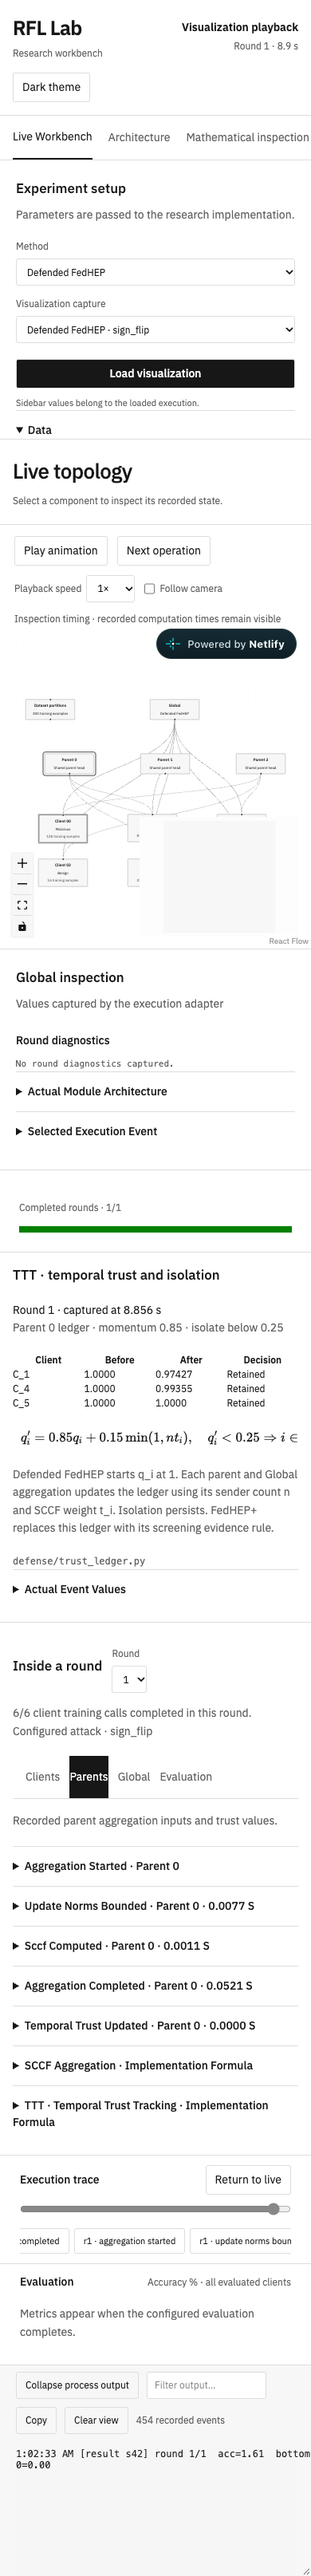
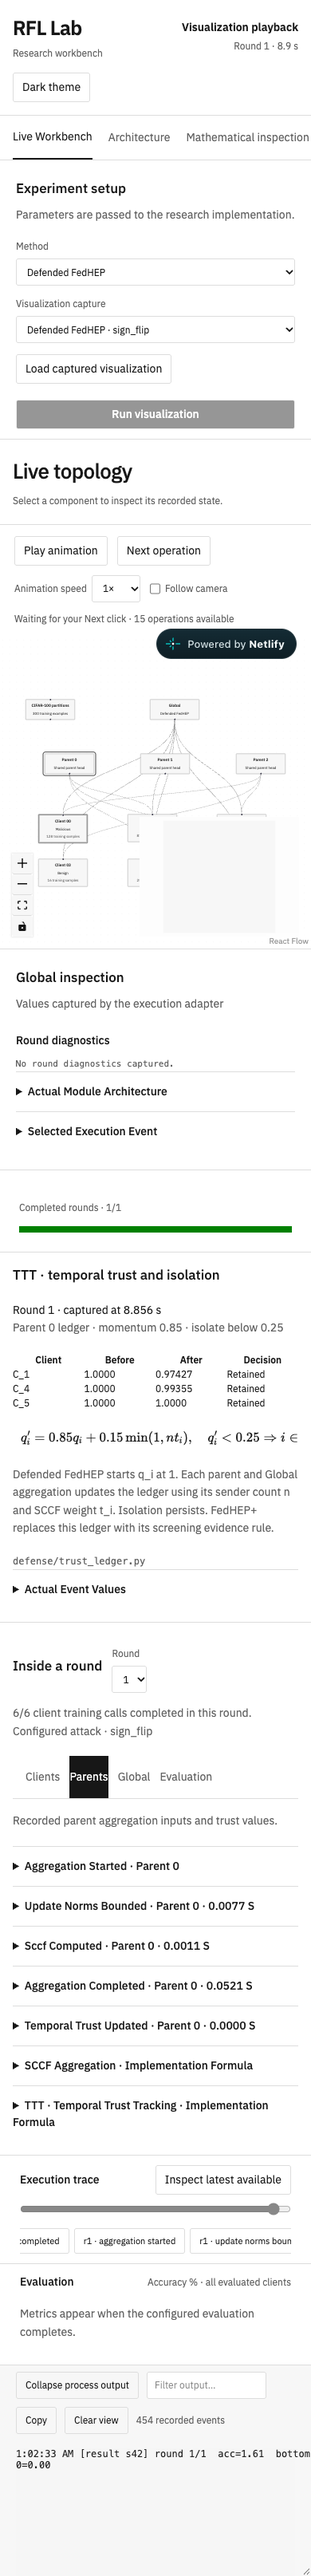
Connect private browser sessions to the online CPU bridge

diff --git a/visualizer/frontend/app/page.tsx b/visualizer/frontend/app/page.tsx
@@ -50,11 +50,13 @@ type Event = {
 type Field = { key: string; default: any; options: any[] | null; type: string };
 async function api(path: string, body?: unknown) {
   const key = sessionStorage.getItem("rfl-cpu-key");
+  const endpoint = sessionStorage.getItem("rfl-cpu-url");
   const response = await fetch("/api" + path, {
     method: body === undefined ? "GET" : "POST",
     headers: {
       "Content-Type": "application/json",
       ...(key ? { "X-RFL-Key": key } : {}),
+      ...(endpoint ? { "X-RFL-Endpoint": endpoint } : {}),
     },
     body: body === undefined ? undefined : JSON.stringify(body),
   });
@@ -137,6 +139,7 @@ export default function Workbench() {
   const [focus, setFocus] = useState("");
   const [historyTarget, setHistoryTarget] = useState("");
   const [cpuKey, setCpuKey] = useState("");
+  const [cpuEndpoint, setCpuEndpoint] = useState("");
   const pendingConfig = useRef<Record<string, any> | null>(null);
   const stream = useRef<{ close: () => void } | null>(null);
   const buffer = useRef<Event[]>([]);
@@ -147,12 +150,15 @@ export default function Workbench() {
       setHistoryTarget(target);
       if (target) setView("Experiment history");
       const key = new URLSearchParams(url.hash.slice(1)).get("cpu-key");
+      const endpoint = new URLSearchParams(url.hash.slice(1)).get("cpu-api");
+      if (endpoint) sessionStorage.setItem("rfl-cpu-url", endpoint);
       if (key) {
         sessionStorage.setItem("rfl-cpu-key", key);
         url.hash = "";
         window.history.replaceState(null, "", url);
       }
       setCpuKey(sessionStorage.getItem("rfl-cpu-key") ?? "");
+      setCpuEndpoint(sessionStorage.getItem("rfl-cpu-url") ?? "");
     };
     shared();
     window.addEventListener("popstate", shared);
@@ -699,14 +705,29 @@ export default function Workbench() {
               <button disabled={running || busy} onClick={() => loadCapture()}>
                 Load captured visualization
               </button>
-              {capabilities.requiresKey && (
+              {(capabilities.requiresKey || !capabilities.training) && (
                 <details open={!cpuKey}>
-                  <summary>{capabilities.mode}</summary>
+                  <summary>
+                    {capabilities.requiresKey
+                      ? capabilities.mode
+                      : "Connect your computer CPU"}
+                  </summary>
+                  <label>
+                    CPU bridge address
+                    <input
+                      type="url"
+                      value={cpuEndpoint}
+                      disabled={running}
+                      placeholder="https://…trycloudflare.com"
+                      onChange={(e) => setCpuEndpoint(e.target.value)}
+                    />
+                  </label>
                   <label>
                     CPU access key
                     <input
                       type="password"
                       autoComplete="off"
+                      disabled={running}
                       value={cpuKey}
                       onChange={(e) => {
                         setCpuKey(e.target.value);
@@ -714,6 +735,22 @@ export default function Workbench() {
                       }}
                     />
                   </label>
+                  <button
+                    disabled={running}
+                    onClick={() => {
+                      if (cpuEndpoint.trim())
+                        sessionStorage.setItem(
+                          "rfl-cpu-url",
+                          cpuEndpoint.trim(),
+                        );
+                      else sessionStorage.removeItem("rfl-cpu-url");
+                      api("/capabilities")
+                        .then(setCapabilities)
+                        .catch((e) => setError(e.message));
+                    }}
+                  >
+                    Connect CPU
+                  </button>
                   <small>
                     The local bridge opens a connected browser tab. The key is
                     stored for this tab’s session.
@@ -1241,7 +1278,9 @@ export default function Workbench() {
                 }
                 loadConfig={(config: any) => {
                   if (running) {
-                    setError("Wait for the current visualization to finish or cancel it before loading another configuration.");
+                    setError(
+                      "Wait for the current visualization to finish or cancel it before loading another configuration.",
+                    );
                     return;
                   }
                   stream.current?.close();

diff --git a/visualizer/frontend/app/api/[...path]/route.ts b/visualizer/frontend/app/api/[...path]/route.ts
@@ -12,15 +12,43 @@ async function handle(request: Request, context: Context) {
     }
   }
 
-  const local = process.env.RFL_ARCHIVE_ONLY !== "1";
-  const remote = !local && Boolean(process.env.RFL_BACKEND_URL);
+  const connection = request.headers.get("x-rfl-endpoint");
+  let backend = process.env.RFL_BACKEND_URL;
+  if (connection) {
+    try {
+      const endpoint = new URL(connection);
+      if (
+        endpoint.protocol !== "https:" ||
+        !endpoint.hostname.endsWith(".trycloudflare.com") ||
+        endpoint.port ||
+        endpoint.username ||
+        endpoint.password ||
+        endpoint.pathname !== "/" ||
+        endpoint.search ||
+        endpoint.hash
+      )
+        throw Error("Invalid endpoint");
+      backend = endpoint.origin;
+    } catch {
+      return Response.json(
+        {
+          detail:
+            "Enter the HTTPS trycloudflare.com address from your CPU bridge.",
+        },
+        { status: 400 },
+      );
+    }
+  }
+  const local = process.env.RFL_ARCHIVE_ONLY !== "1" && !connection;
+  const remote = !local && Boolean(backend);
   if (route === "capabilities") {
     let online = local;
     if (remote) {
       try {
         online = (
-          await fetch(`${process.env.RFL_BACKEND_URL}/health`, {
+          await fetch(`${backend}/health`, {
             cache: "no-store",
+            redirect: "error",
             signal: AbortSignal.timeout(4000),
           })
         ).ok;
@@ -67,9 +95,10 @@ async function handle(request: Request, context: Context) {
   if (local || (remote && path[0] === "experiments")) {
     try {
       const upstream = await fetch(
-        `${process.env.RFL_BACKEND_URL ?? "http://127.0.0.1:8000"}/${route}${new URL(request.url).search}`,
+        `${backend ?? "http://127.0.0.1:8000"}/${route}${new URL(request.url).search}`,
         {
           method: request.method,
+          redirect: "error",
           headers: {
             "Content-Type": "application/json",
             ...(remote

diff --git a/visualizer/scripts/online_cpu.py b/visualizer/scripts/online_cpu.py
@@ -14,18 +14,15 @@ import time
 import urllib.request
 import webbrowser
 from pathlib import Path
+from urllib.parse import urlencode
 
 VIZ = Path(__file__).resolve().parents[1]
 STATE = VIZ / "data/online-cpu"
 SITE = "https://rfl-lab-visualizer.netlify.app"
-SITE_ID = "e8c6b306-0467-4ca4-8c41-0c31e1bfb675"
 
 
 def main():
     parser = argparse.ArgumentParser(description=__doc__)
-    parser.add_argument(
-        "--no-deploy", action="store_true", help="Update the endpoint without triggering a new build"
-    )
     parser.add_argument("--no-open", action="store_true", help="Keep the connected browser tab closed")
     args = parser.parse_args()
     STATE.mkdir(parents=True, exist_ok=True)
@@ -33,7 +30,14 @@ def main():
     try:
         fcntl.flock(bridge_lock, fcntl.LOCK_EX | fcntl.LOCK_NB)
     except BlockingIOError:
-        sys.exit("The CPU bridge is already running.")
+        connection_file = STATE / "connection.json"
+        if connection_file.exists() and not args.no_open:
+            endpoint = json.loads(connection_file.read_text())["endpoint"]
+            token = (STATE / "access-key").read_text().strip()
+            webbrowser.open(f"{SITE}/#{urlencode({'cpu-api': endpoint, 'cpu-key': token})}")
+        print("The CPU bridge is already running.")
+        return
+    (STATE / "connection.json").unlink(missing_ok=True)
     binary = VIZ / "data/bin/cloudflared"
     if not binary.is_file():
         sys.exit("Install cloudflared in visualizer/data/bin/cloudflared as described in docs/ONLINE_CPU.md.")
@@ -94,54 +98,35 @@ def main():
             )
             children.append(tunnel)
             endpoint = None
+            retries = 0
             for _ in range(90):
                 if tunnel.poll() is not None:
-                    sys.exit("Tunnel could not start. Inspect data/online-cpu/tunnel.log.")
-                match = re.search(r"https://[a-z0-9-]+\.trycloudflare\.com", (STATE / "tunnel.log").read_text())
-                if match:
+                    if retries >= 3:
+                        sys.exit("Tunnel could not start after retries. Inspect data/online-cpu/tunnel.log.")
+                    retries += 1
+                    time.sleep(2)
+                    tunnel_log.seek(0)
+                    tunnel_log.truncate()
+                    tunnel = subprocess.Popen(tunnel.args, stdout=tunnel_log, stderr=subprocess.STDOUT)
+                    children.append(tunnel)
+                    continue
+                connection_log = (STATE / "tunnel.log").read_text()
+                match = re.search(r"https://[a-z0-9-]+\.trycloudflare\.com", connection_log)
+                if match and "Registered tunnel connection" in connection_log:
                     endpoint = match.group(0)
-                    try:
-                        urllib.request.urlopen(endpoint + "/health", timeout=4).close()
-                        break
-                    except OSError:
-                        pass
+                    break
                 time.sleep(1)
             else:
                 sys.exit("Tunnel did not become reachable.")
             (STATE / "connection.json").write_text(
                 json.dumps({"endpoint": endpoint, "site": SITE, "pid": os.getpid()})
             )
-            cli = ["npx", "--yes", "netlify-cli"]
-            subprocess.run(
-                cli
-                + [
-                    "env:set",
-                    "RFL_BACKEND_URL",
-                    endpoint,
-                    "--context",
-                    "production",
-                    "--scope",
-                    "functions",
-                    "--force",
-                ],
-                cwd=VIZ / "frontend",
-                check=True,
-                stdout=subprocess.DEVNULL,
-            )
-            if not args.no_deploy:
-                subprocess.run(
-                    cli + ["api", "createSiteBuild", "--data", json.dumps({"site_id": SITE_ID})],
-                    cwd=VIZ / "frontend",
-                    check=True,
-                    stdout=subprocess.DEVNULL,
-                )
             print(
-                "CPU bridge online. Keep this process running. "
-                "Netlify must finish deployment to use the new endpoint.",
+                "CPU bridge online. Keep this process running. The bridge opens a connected workbench tab.",
                 flush=True,
             )
             if not args.no_open:
-                webbrowser.open(f"{SITE}/#cpu-key={token}")
+                webbrowser.open(f"{SITE}/#{urlencode({'cpu-api': endpoint, 'cpu-key': token})}")
             while api.poll() is None and tunnel.poll() is None:
                 time.sleep(1)
             sys.exit("CPU bridge process exited. Inspect data/online-cpu logs and restart this script.")

diff --git a/visualizer/backend/rfl_viz/api.py b/visualizer/backend/rfl_viz/api.py
@@ -113,7 +113,7 @@ app = FastAPI(title="RFL Lab Visualizer", lifespan=lifespan)
 async def local_requests(request: Request, call_next):
     token = os.environ.get("RFL_VIZ_TOKEN")
     if token and request.url.path != "/health" and not secrets.compare_digest(
-        request.headers.get("authorization", ""), f"Bearer {token}"
+        request.headers.get("authorization", "").encode(), f"Bearer {token}".encode()
     ):
         from fastapi.responses import JSONResponse
 

diff --git a/visualizer/docs/ONLINE_CPU.md b/visualizer/docs/ONLINE_CPU.md
@@ -10,13 +10,13 @@ From RFL_Lab, run the following command with the existing research environment.
 ../.venv/bin/python visualizer/scripts/online_cpu.py
 ```
 
-The script starts FastAPI and cloudflared, updates the production Netlify `RFL_BACKEND_URL`, triggers a deployment and opens a browser tab with the private CPU key. Wait for deployment to finish. The page removes the key fragment and stores the key in sessionStorage. Other browser sessions can inspect captures and history, and need the CPU access key to submit or inspect custom runs. The key is in `visualizer/data/online-cpu/access-key` with owner-only file permissions.
+The script starts FastAPI and cloudflared, then opens a browser tab with the tunnel address and private CPU key in its URL fragment. The page removes the fragment and stores the connection in sessionStorage. Re-running the command while the bridge is active opens another connected tab. The Netlify proxy accepts HTTPS trycloudflare.com endpoints and rejects redirects. Its requests carry the owner’s access key. Connection details belong to the browser session. Other browser sessions can inspect captures and history, and need the CPU access key to submit or inspect custom runs. The key is in `visualizer/data/online-cpu/access-key` with owner-only file permissions.
 
-Keep the process running while using the site. Ctrl-C stops the bridge and its API. Computer sleep, shutdown or loss of network makes custom execution unavailable. Restart the command to reconnect after reboot. Every fresh quick tunnel has a new hostname, so restarting also requires the triggered Netlify deployment. There is no login-item installation. `--no-deploy` supports a pending GitHub deployment and `--no-open` suppresses the browser launch.
+Keep the process running while using the site. Ctrl-C stops the bridge and its API. Computer sleep, shutdown or loss of network makes custom execution unavailable. Restart the command to reconnect after reboot. Every fresh quick tunnel has a new hostname, and the newly opened browser tab uses that address. There is no login-item installation. `--no-open` suppresses the browser launch.
 
[2 lines of base64/hex data omitted]
 
-The account-free quick tunnel has a temporary address and no uptime guarantee. Its supported transport excludes SSE, so the workbench fetches ordered batches with a persisted sequence cursor. A failed request retries from the same cursor. Training runs in a separate process and continues between HTTP requests. The current network uses HTTP/2 transport. [Cloudflare quick tunnel documentation](https://developers.cloudflare.com/tunnel/get-started/quick-tunnels/)
+The account-free quick tunnel has a temporary address and no uptime guarantee. Its supported transport excludes SSE, so the workbench fetches ordered batches with a persisted sequence cursor. A failed request retries from the same cursor. Training runs in a separate process and continues between HTTP requests. The current network uses IPv4 HTTP/2 transport. The launcher retries temporary URL-creation failures and waits for a registered tunnel connection. [Cloudflare quick tunnel documentation](https://developers.cloudflare.com/tunnel/get-started/quick-tunnels/)
 
 ## Verification and logs
 

diff --git a/visualizer/docs/DEPLOYMENT.md b/visualizer/docs/DEPLOYMENT.md
@@ -4,7 +4,7 @@ The Netlify site is `https://rfl-lab-visualizer.netlify.app`.
 
 New training runs on the owner's workstation. The deployed site connects through the authenticated CPU bridge described in ONLINE_CPU.md. For a fully local interface, run `bash visualizer/scripts/dev.sh` from RFL_Lab and open `http://127.0.0.1:3000`. CPU is the default, including configurations loaded from historical GPU runs. The local API serializes workers and supports queued and active cancellation.
 
-Netlify runs with `RFL_ARCHIVE_ONLY=1`. It serves curated research results and captured CPU visualization traces. Load captured visualization opens a trace. Next operation advances inspection. Play animation animates the current transfer. With RFL_BACKEND_URL configured, custom training uses the authenticated CPU bridge.
+Netlify runs with `RFL_ARCHIVE_ONLY=1`. It serves curated research results and captured CPU visualization traces. Load captured visualization opens a trace. Next operation advances inspection. Play animation animates the current transfer. The local bridge opens a browser session connected to its current HTTPS endpoint. Custom training requests pass through the same-origin Netlify proxy with the owner’s private CPU key.
 
 Continuous deployment uses the existing private GitHub repository, its main branch, a read-only Netlify deploy key and the GitHub push webhook. Build configuration is in `visualizer/frontend/netlify.toml`. The build runs `npm run build` in `visualizer/frontend`. The prebuild exporter reads the output folders selected in `frontend/research/history-manifest.json`. Additional local-only results present at initial publication are preserved in `frontend/research/additional-history.json`. New results need to be pushed to GitHub for hosted publication.
 
